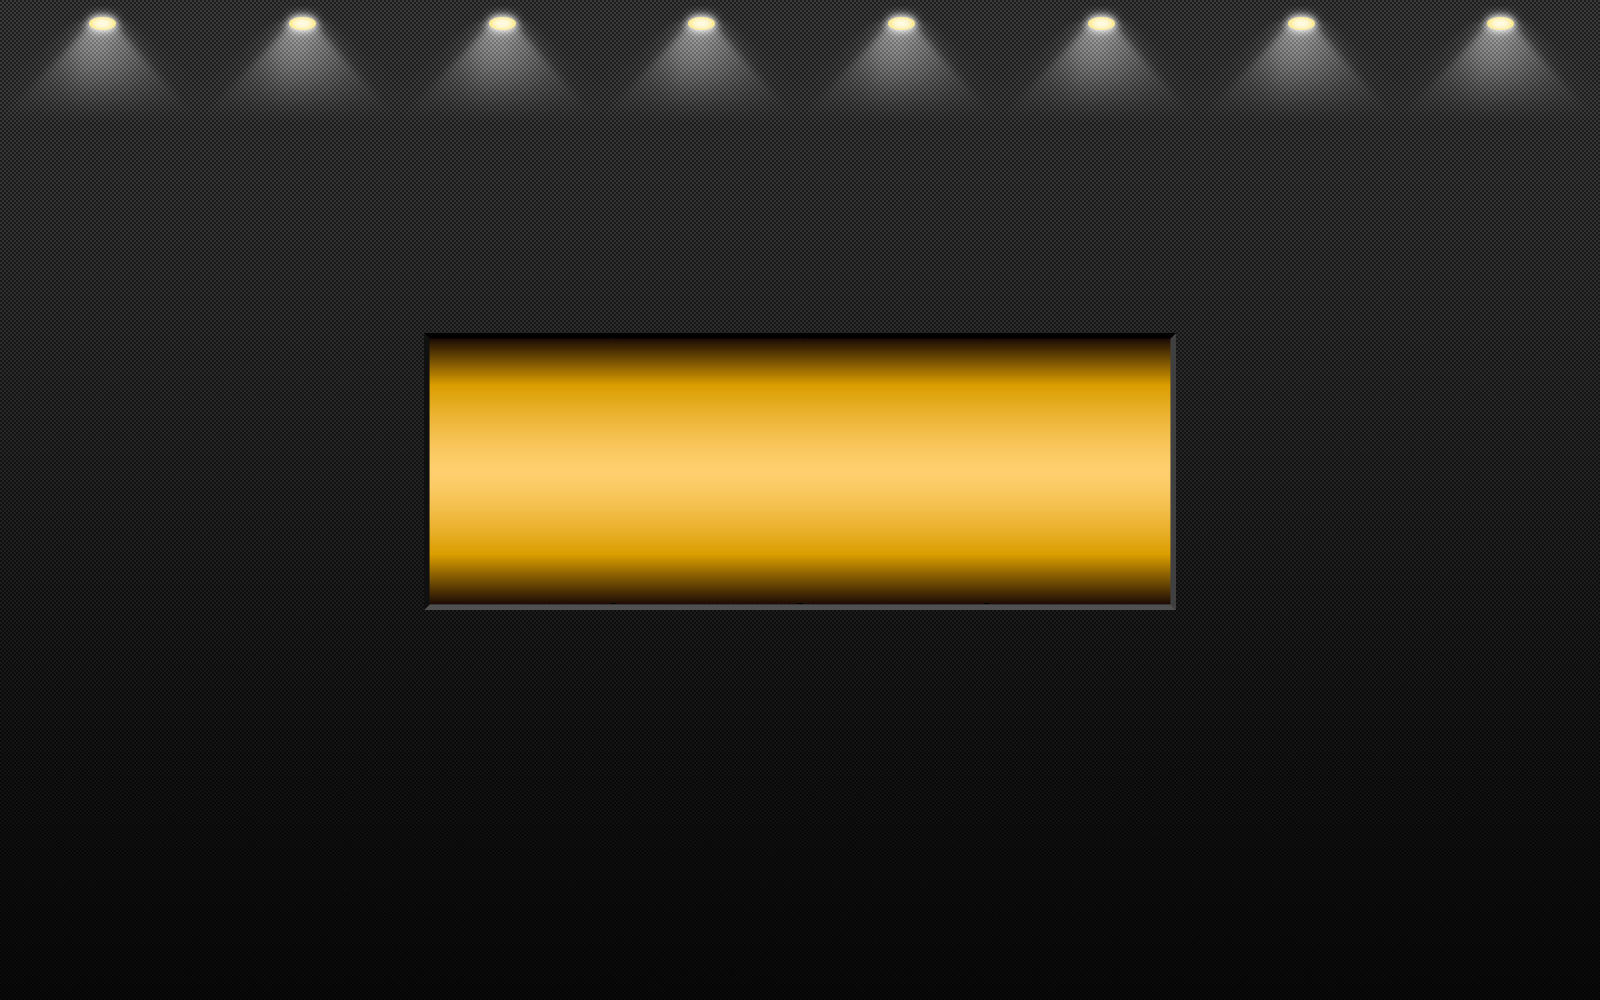
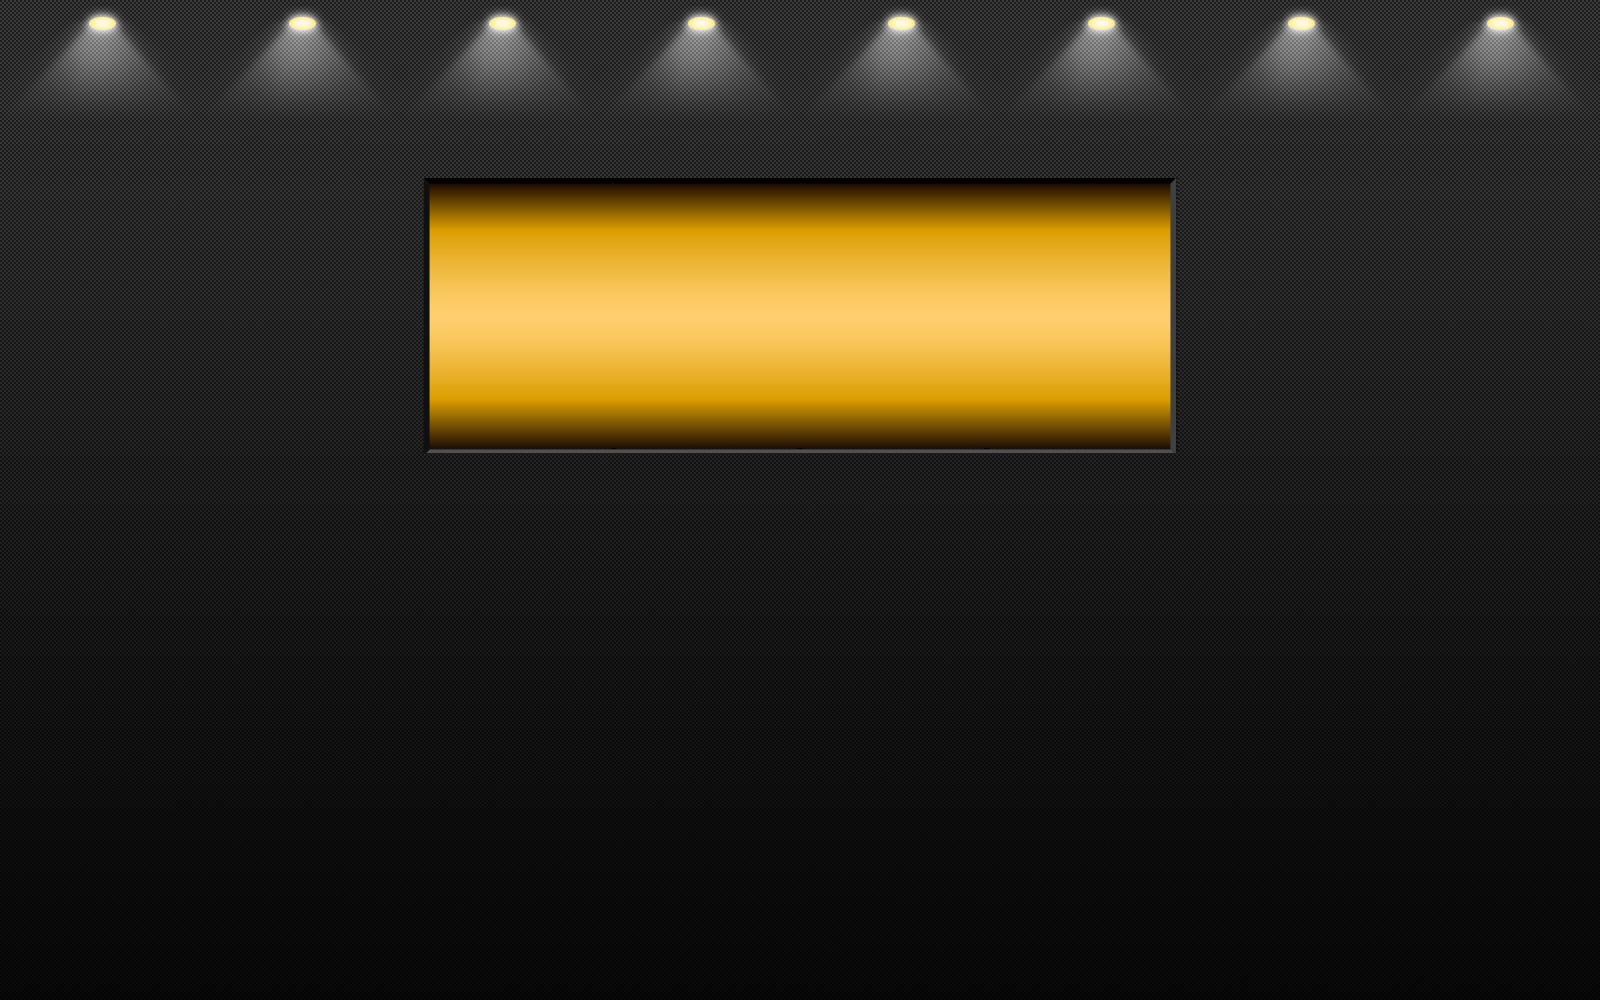
devS1 updata

Changed region(s): [[0.25, 0.155, 0.75, 0.62]]

diff --git a/js/index.js b/js/index.js
@@ -1,107 +1,85 @@
 $(function () {
 
     initList();
-    var duration = 70,//动画执行的毫秒,注意:不要大于步长(speed)的毫秒数
-        speed = 100,//步长
+    var duration = 50,//动画执行的毫秒,注意:不要大于步长(speed)的毫秒数
+        speed = 80,//步长
         stop = 5000;//停止时间
 
 
-
-    var index = 0;//初始化当前下标
     var isBegin = false;//阻止连续点击
 
-    $('.start').on('click', function () {
+    function lottery(){
         if (isBegin) {
             return false;
         }
-
+        initList();
         isBegin = true;
         var _list = $('.list-group');
-        stop = _list.length * speed * 10;
+
         var numRan = parseInt((Math.random() + .1) * _list.length);
-        //console.log(numRan);
-        stop += numRan * speed;
-        if(index != 0){
-            _list.eq(index).animate({
-                top: -_list.eq(index).height()
-            },{
-                duration: duration,
-                complete: function(){
-                    _list.eq(index).css({
-                        top: _list.eq(index).height()
-                    });
-                    index = 0;
-                }
-            })
-        }
 
-        var timer = setInterval(function () {
-            if (index >= _list.length - 1) {
-
-                index = 0;
-
-                _list.eq(_list.length - 1).animate({
-                    top: parseInt(_list.eq(_list.length - 1).css('top')) - (_list.eq(index).height() * (index + 1))
-                }, {
-                    duration: duration,
-                    complete: function () {
-                        _list.eq(_list.length - 1).css({
-                            top: _list.eq(index).height()
-                        });
-                    }
+        //第一次进来的时候第一个往上移走
+        _list.eq(0).animate({
+            top: -parseInt(_list.height())
+        }, {
+            duration: duration,
+            complete: function () {
+                _list.eq(0).css({
+                    top: _list.eq(0).height()
                 });
-
-                _list.eq(index).animate({
-                    top: 0
-                }, {
-                    duration: duration
-                });
-
-            } else {
-
-                _list.eq(index).animate({
-                    top: parseInt(_list.eq(index).css('top')) - _list.eq(index).height()
-                }, {
-                    duration: duration,
-                    complete: function () {
-                        _list.eq(index).css({
-                            top: _list.eq(index).height()
-                        });
-                    }
-                });
-
-                _list.eq(index + 1).animate({
-                    top: 0
-                },{
-                    duration: duration,
-                    complete: function(){
-                        //isBegin = false;
-                        index += 1;
-                    }
-                });
-
             }
-
+        });
+        var timer = setInterval(function () {
+            var numRanID = parseInt((Math.random() + .1) * _list.length);
+            _list.eq(numRanID).animate({
+                top: parseInt(_list.eq(numRanID).css('top')) - _list.eq(numRanID).height()
+            }, {
+                duration: duration,
+                complete: function () {
+                    _list.eq(numRanID).animate({
+                        top: -_list.eq(numRanID).height()
+                    }, {
+                        duration: duration,
+                        complete: function () {
+                            _list.eq(numRanID).css({
+                                top: _list.eq(numRanID).height()
+                            });
+                        }
+                    });
+                }
+            });
         }, speed);
 
         setTimeout(function () {
             clearInterval(timer);
+            _list.eq(numRan).animate({
+                top: 0
+            });
             isBegin = false;
         }, stop);
-
+        return numRan;
+    }
+    function initList() {
+        $('.list-group').each(function (i) {
+            if(i === 0){
+                $(this).css({
+                    top: 0
+                });
+            }else{
+                var top = parseInt($('.list-group:eq(' + (i) + ')').css('top')) + ($(this).height());
+                $(this).css({
+                    top: top
+                });
+            }
+        });
+    }
+    //抽取一次
+    $('.start').on('click', function(){
+        var winners = lottery();
+        setTimeout(function(){
+            $('#res').html('恭喜：' + $('.list-group').eq(winners).html());
+        },stop);
+        console.log(winners);
     });
 });
 
-function initList() {
-    $('.list-group').each(function (i) {
-        var top = parseInt($('.list-group:eq(' + (i) + ')').css('top')) + ($(this).height() * i);
-        $(this).css({
-            top: top
-        });
-    });
-}
-
-function easeInOutCirc(x, t, b, c, d) {
-    if ((t /= d / 2) < 1) return -c / 2 * (Math.sqrt(1 - t * t) - 1) + b;
-    return c / 2 * (Math.sqrt(1 - (t -= 2) * t) + 1) + b;
-}

diff --git a/css/style.css b/css/style.css
@@ -16,15 +16,22 @@ li {
 }
 .start {
     position: absolute;
-    bottom: 26%;
-    left: 39%;
+    top: 52%;
+    left: 30%;
+    font-weight: bold;
+    z-index: 100;
+}
+.thrice {
+    position: absolute;
+    top: 52%;
+    left: 50%;
     font-weight: bold;
     z-index: 100;
 }
 .btn {
     color: #666;
     background-color: #EEE;
-    border-color: #EEE;
+    border-color: #eee;
     font-weight: 300;
     font-size: 16px;
     text-decoration: none;
@@ -63,12 +70,25 @@ li {
     position: relative;
     margin: 0 auto;
 }
+#res {
+    position: absolute;
+    top: 5.5%;
+    left: 50%;
+    width: 75%;
+    height: 100px;
+    margin-left: -370px;
+    -webkit-border-radius: 8px;
+    -moz-border-radius: 8px;
+    border-radius: 8px;
+    font-size: 4em;
+    color: red;
+}
 .ld_box {
     height: 450px;
     width: 750px;
     position: absolute;
     left: 50%;
-    top: 340px;
+    top: 175px;
     margin-left: -370px;
     z-index: 8;
     overflow: hidden;

diff --git a/index.html b/index.html
@@ -13,7 +13,7 @@
 
     <div class="main_bg">
         <div class="main">
-            <!--<div id="res" style="text-align:center;color:#fff;padding-top:15px;"></div>-->
+            <div id="res" style="text-align:center;color:#fff;padding-top:15px;"></div>
             <div class="ld_box">
                 <ul class="ld_list">
                     <li class="list-group">001</li>
